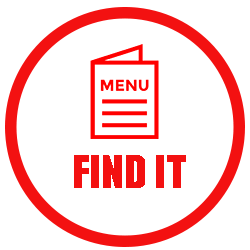
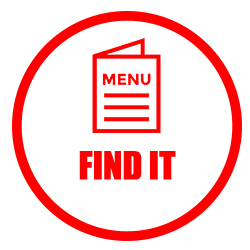
three buttons

Changed region(s): [[0.0, 0.028, 0.98, 1.0], [0.336, 0.14, 0.644, 0.56], [0.28, 0.588, 0.756, 0.756]]

diff --git a/index.html b/index.html
@@ -127,9 +127,9 @@
                         <button type="button" class="close" data-dismiss="modal" aria-hidden="true">×</button>
                         <h4 class="panel-title" id="contactLabel"><span class="glyphicon glyphicon-info-sign"></span> Please input your address. </h4>
                     </div>
-                    <form action="#" method="post" accept-charset="utf-8">
+                   <!--  <form action="#" method="post" accept-charset="utf-8">
                     <div class="modal-body" style="padding: 10px;">
-                        
+                         -->
         
 
          <!-- Text input-->

diff --git a/assets/javascript/temp.js b/assets/javascript/temp.js
@@ -12,9 +12,9 @@ $("#deliverit-img").mouseout( function(){
    $(this).attr("src", "assets/images/deliver.png");
 });
 
-// $("#findit-img").mouseover( function(){
-//    $(this).attr("src", "assets/images/find2.png");
-// });
-// $("#findit-img").mouseout( function(){
-//    $(this).attr("src", "assets/images/find.png");
-// });
+$("#findit-img").mouseover( function(){
+   $(this).attr("src", "assets/images/find2.png");
+});
+$("#findit-img").mouseout( function(){
+   $(this).attr("src", "assets/images/find.png");
+});
